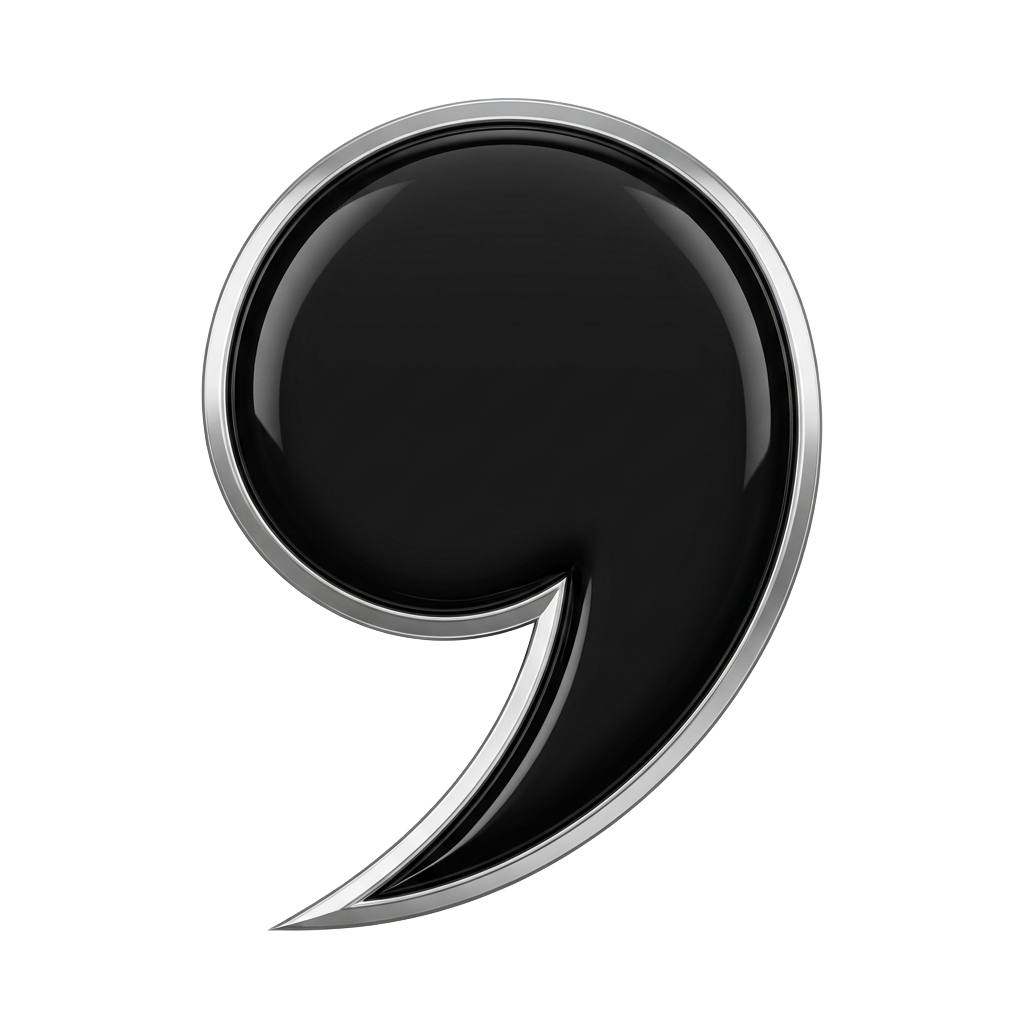
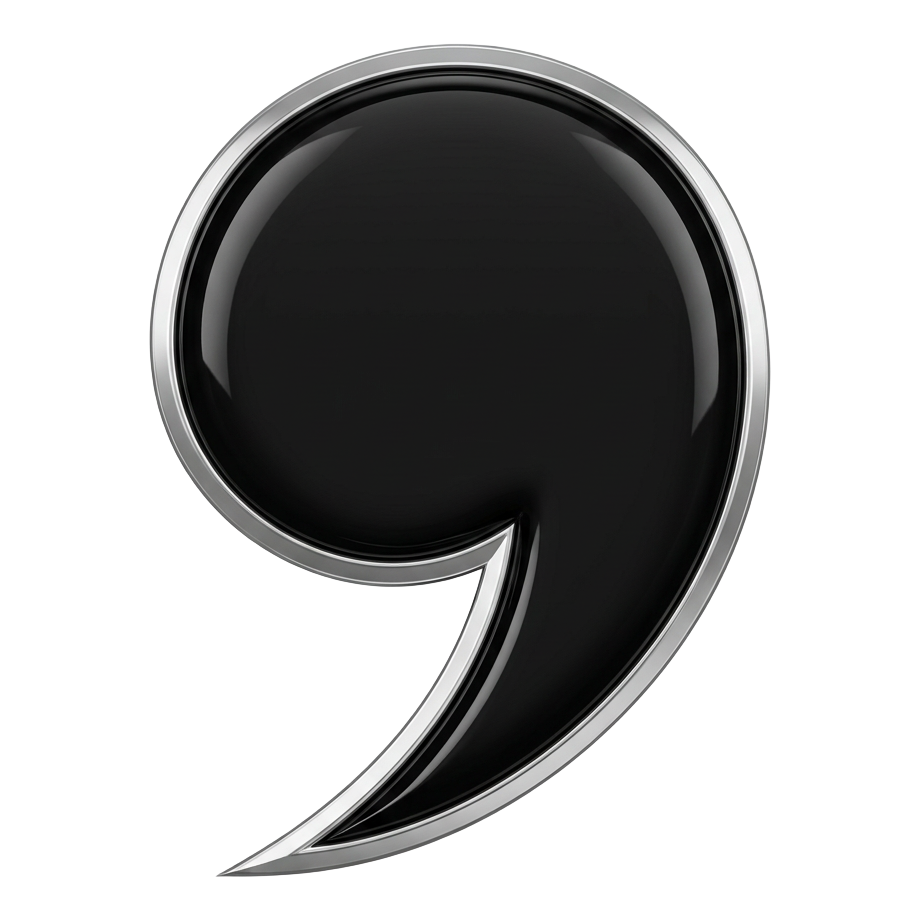
Changes

Changed region(s): [[0.1522, 0.0304, 0.8522, 0.9739]]

diff --git a/src/components/Logo.tsx b/src/components/Logo.tsx
@@ -1,4 +1,4 @@
-import logo from "@/assets/black-coma-logo.png";
+import logo from "@/assets/black-coma-symbol.png";
 
 export function Logo({ className = "size-8" }: { className?: string }) {
   return <img src={logo} alt="Black Coma Ventures" className={className} width={64} height={64} />;
